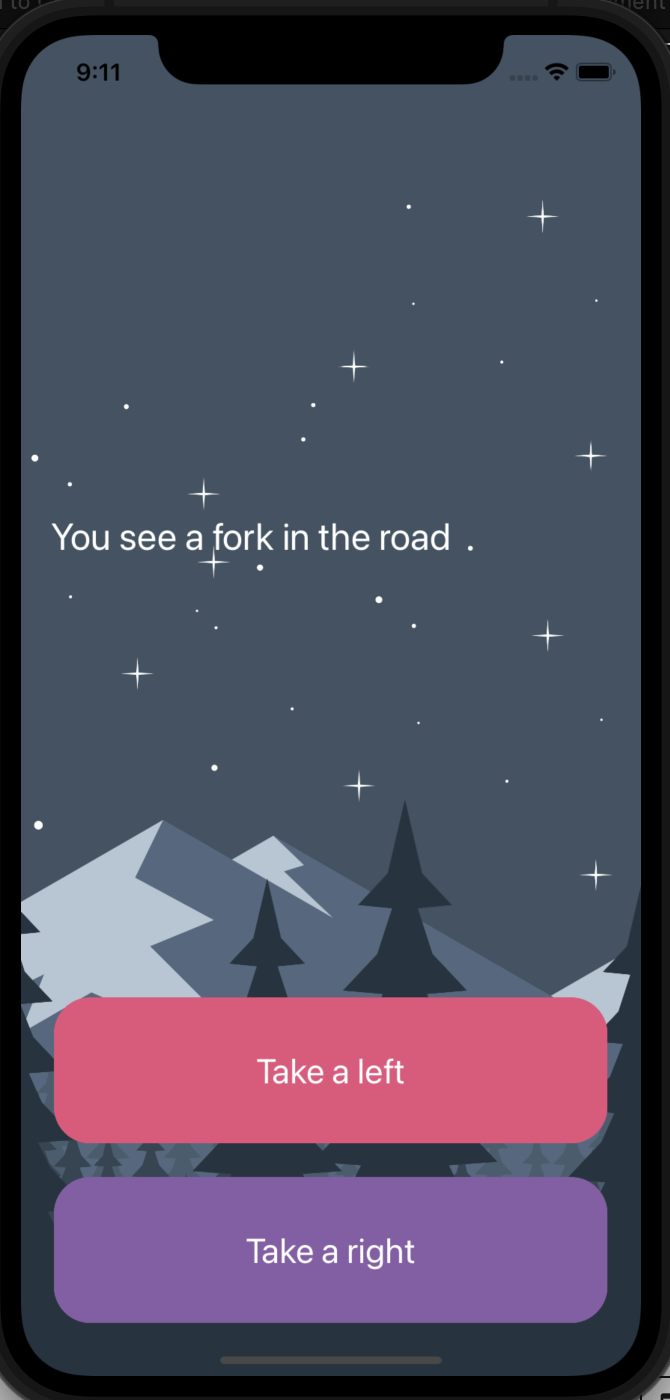
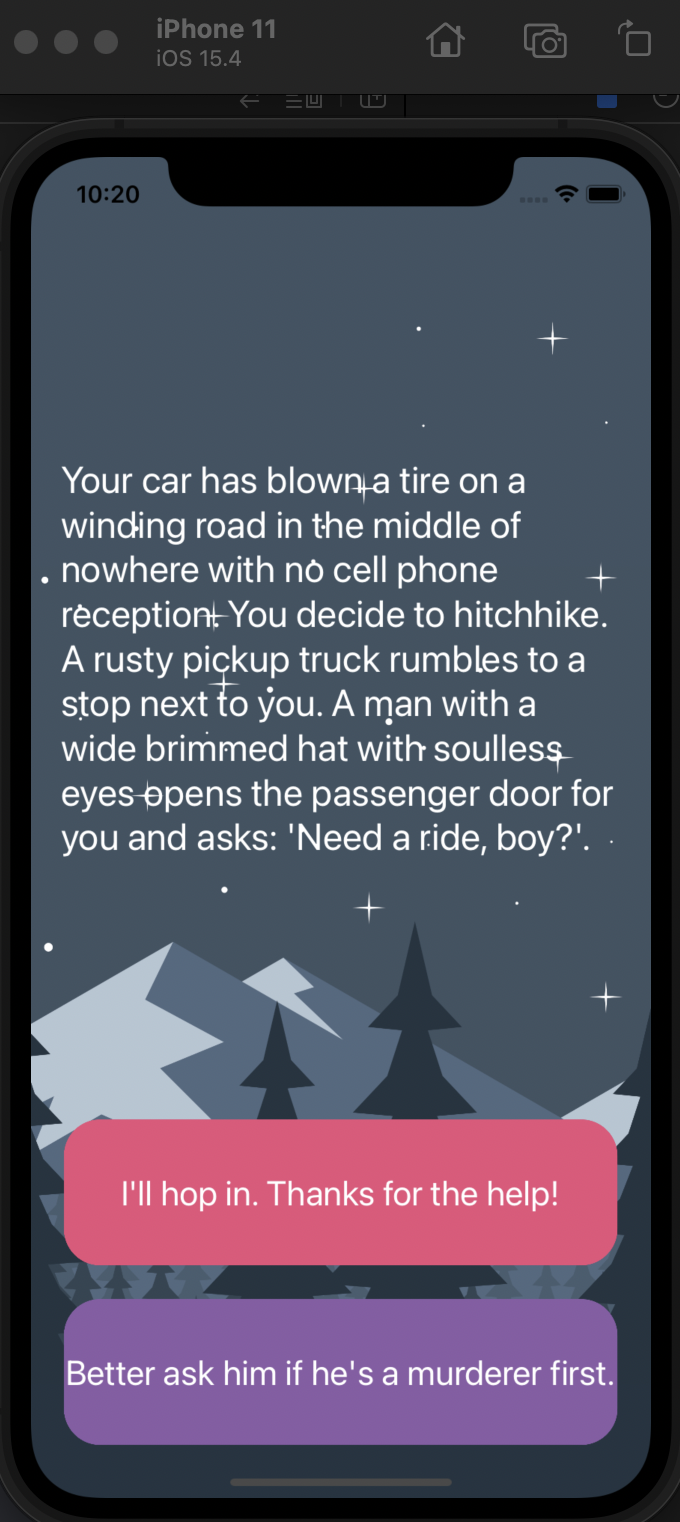
final commit

diff --git a/Destini-iOS13/Model/StoryBrain.swift b/Destini-iOS13/Model/StoryBrain.swift
@@ -1,11 +1,62 @@
-//
-//  StoryBrain.swift
-//  Destini-iOS13
-//
-//  Created by Angela Yu on 08/08/2019.
-//  Copyright © 2019 The App Brewery. All rights reserved.
-//
-
 import Foundation
-
-
+    
+    struct StoryBrain {
+        
+        var storyNumber = 0
+        
+        let stories = [
+            Story(
+                title: "Your car has blown a tire on a winding road in the middle of nowhere with no cell phone reception. You decide to hitchhike. A rusty pickup truck rumbles to a stop next to you. A man with a wide brimmed hat with soulless eyes opens the passenger door for you and asks: 'Need a ride, boy?'.",
+                choice1: "I'll hop in. Thanks for the help!", choice1Destination: 2,
+                choice2: "Better ask him if he's a murderer first.", choice2Destination: 1
+            ),
+            Story(
+                title: "He nods slowly, unfazed by the question.",
+                choice1: "At least he's honest. I'll climb in.", choice1Destination: 2,
+                choice2: "Wait, I know how to change a tire.", choice2Destination: 3
+            ),
+            Story(
+                title: "As you begin to drive, the stranger starts talking about his relationship with his mother. He gets angrier and angrier by the minute. He asks you to open the glovebox. Inside you find a bloody knife, two severed fingers, and a cassette tape of Elton John. He reaches for the glove box.",
+                choice1: "I love Elton John! Hand him the cassette tape.", choice1Destination: 5,
+                choice2: "It's him or me! You take the knife and stab him.", choice2Destination: 4
+            ),
+            Story(
+                title: "What? Such a cop out! Did you know traffic accidents are the second leading cause of accidental death for most adult age groups?",
+                choice1: "The", choice1Destination: 0,
+                choice2: "End", choice2Destination: 0
+            ),
+            Story(
+                title: "As you smash through the guardrail and careen towards the jagged rocks below you reflect on the dubious wisdom of stabbing someone while they are driving a car you are in.",
+                choice1: "The", choice1Destination: 0,
+                choice2: "End", choice2Destination: 0
+            ),
+            Story(
+                title: "You bond with the murderer while crooning verses of 'Can you feel the love tonight'. He drops you off at the next town. Before you go he asks you if you know any good places to dump bodies. You reply: 'Try the pier.'",
+                choice1: "The", choice1Destination: 0,
+                choice2: "End", choice2Destination: 0
+            )
+        ]
+        
+        func getStoryTitle() -> String {
+            return stories[storyNumber].title
+        }
+        
+        func getChoice1() -> String {
+            return stories[storyNumber].choice1
+        }
+        
+        func getChoice2() -> String {
+            return stories[storyNumber].choice2
+        }
+        
+        mutating func nextStory(userChoice: String) {
+            
+            let currentStory = stories[storyNumber]
+            if userChoice == currentStory.choice1 {
+                storyNumber = currentStory.choice1Destination
+            } else if userChoice == currentStory.choice2 {
+                storyNumber = currentStory.choice2Destination
+            }
+        }
+        
+    }

diff --git a/Destini-iOS13/Controller/ViewController.swift b/Destini-iOS13/Controller/ViewController.swift
@@ -1,11 +1,3 @@
-//
-//  ViewController.swift
-//  Destini-iOS13
-//
-//  Created by Angela Yu on 08/08/2019.
-//  Copyright © 2019 The App Brewery. All rights reserved.
-//
-
 import UIKit
 
 class ViewController: UIViewController {
@@ -14,24 +6,27 @@ class ViewController: UIViewController {
     @IBOutlet weak var choice1Button: UIButton!
     @IBOutlet weak var choice2Button: UIButton!
     
-    let story0 = "You see a fork in the road"
-    let choice1 = "Take a left"
-    let choice2 = "Take a right"
+    var storyBrain = StoryBrain()
     
     override func viewDidLoad() {
         super.viewDidLoad()
         
-        storyLabel.text = story0
-        choice1Button.setTitle(choice1, for: .normal)
-        choice2Button.setTitle(choice2, for: .normal)
+        updateUI()
 
     }
-    
-    
+
     @IBAction func choiceMade(_ sender: UIButton) {
         
+        storyBrain.nextStory(userChoice: sender.currentTitle!)
+        
+        updateUI()
+     
     }
     
-
+    func updateUI() {
+        storyLabel.text = storyBrain.getStoryTitle()
+        choice1Button.setTitle(storyBrain.getChoice1(), for: .normal)
+        choice2Button.setTitle(storyBrain.getChoice2(), for: .normal)
+    }
+    
 }
-

diff --git a/Destini-iOS13/Model/Story.swift b/Destini-iOS13/Model/Story.swift
@@ -1,13 +1,11 @@
-//
-//  Sotry.swift
-//  Destini-iOS13
-//
-//  Created by Angela Yu on 08/08/2019.
-//  Copyright © 2019 The App Brewery. All rights reserved.
-//
-
 import Foundation
 
 struct Story {
+    
+    var title: String
+    var choice1: String
+    let choice1Destination: Int
+    var choice2: String
+    let choice2Destination: Int
     
 }

diff --git a/Destini-iOS13/SceneDelegate.swift b/Destini-iOS13/SceneDelegate.swift
@@ -1,11 +1,3 @@
-//
-//  SceneDelegate.swift
-//  Destini-iOS13
-//
-//  Created by Angela Yu on 08/08/2019.
-//  Copyright © 2019 The App Brewery. All rights reserved.
-//
-
 import UIKit
 
 class SceneDelegate: UIResponder, UIWindowSceneDelegate {

diff --git a/Destini-iOS13/AppDelegate.swift b/Destini-iOS13/AppDelegate.swift
@@ -1,11 +1,3 @@
-//
-//  AppDelegate.swift
-//  Destini-iOS13
-//
-//  Created by Angela Yu on 08/08/2019.
-//  Copyright © 2019 The App Brewery. All rights reserved.
-//
-
 import UIKit
 
 @UIApplicationMain

diff --git a/README.md b/README.md
@@ -1,3 +1,3 @@
 The app will tell a story depending on what the user chooses and can be fleshed out and modified to provide an engaging story-telling experience.
 
-![sample](readmeImg.png)
+<img src="readmeImg.png" alt="sample" width="300"/>
